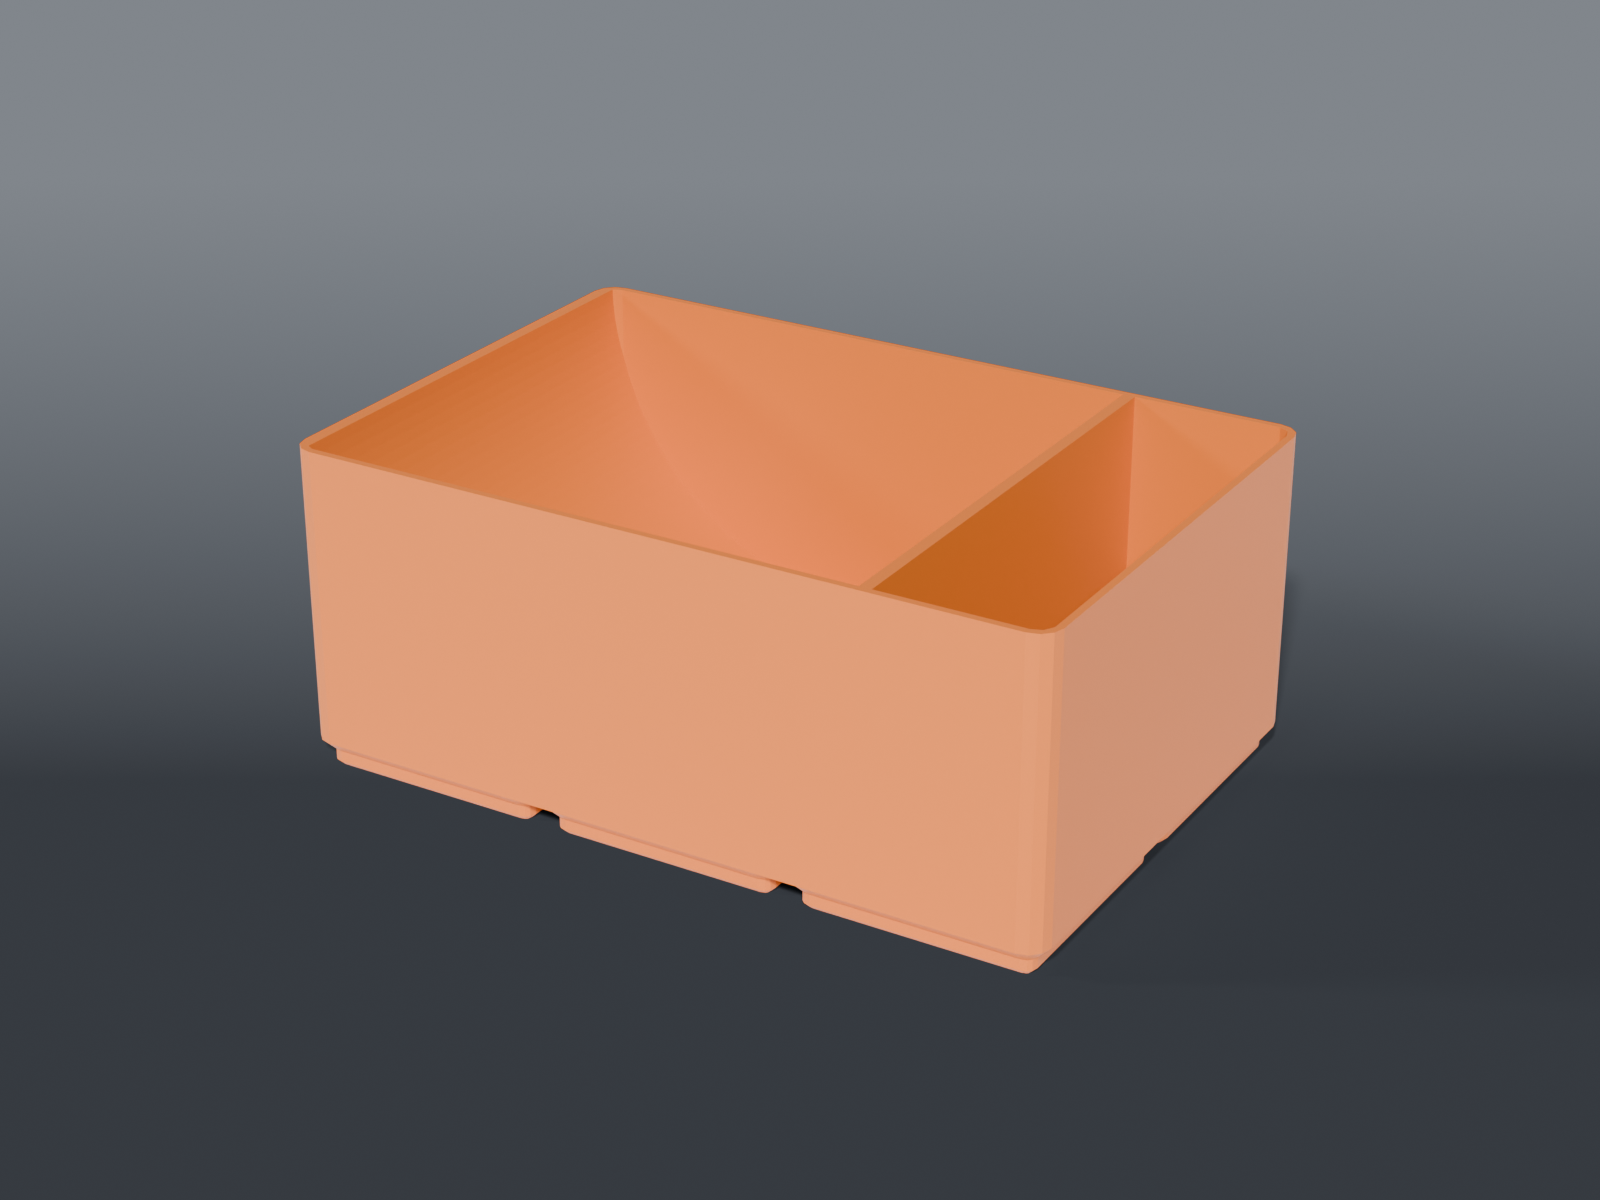
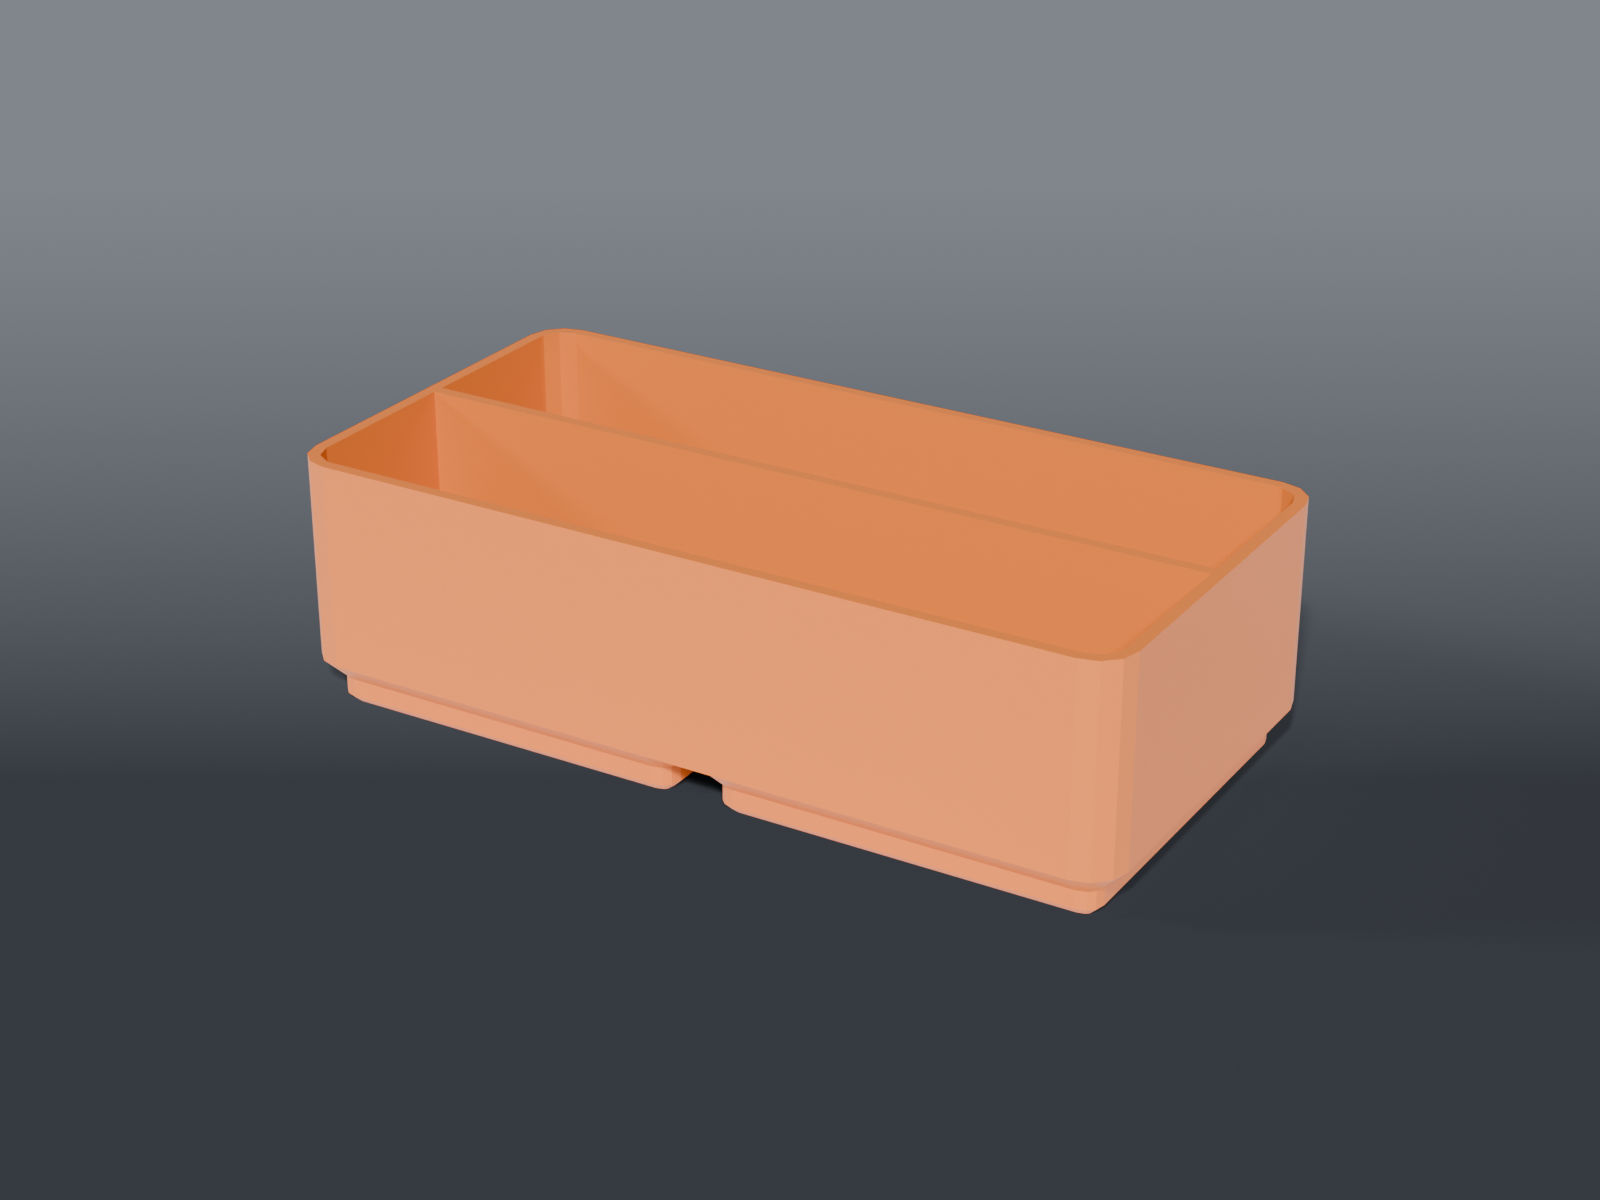
fix(phone-repair-consumables): two flat bays, roll stands in its slot

diff --git a/phone-repair-consumables/README.md b/phone-repair-consumables/README.md
@@ -2,46 +2,41 @@
 
 ![Phone-repair consumables](preview.png)
 
-A **3×2 bin** for the adhesive and foam consumables out of the phone-repair kit: one roll, cradled, plus a bay for the loose strips.
+A **2×1 bin split down its length into two flat-bottomed bays** — the adhesive/foam roll in one, the loose strips in the other.
 
 ## Parts
 
 | Part | File | Size | Print |
 |---|---|---|---|
-| **Adhesive + foam bin** | `bin_adhesive_foam.scad` | 125.5 × 83.5 × 53.2 mm | ×1 — feet down, no supports |
+| **Adhesive + foam bin** | `bin_adhesive_foam.scad` | 83.5 × 41.5 × 25 mm | ×1 — feet down, no supports |
 
-## The roll only fits one way
+Two bays of **81.1 × 18.95**, 18.85 mm floor to rim. 25.8 cm³, about 11 g.
 
-At ⌀92 the roll **cannot lie flat** in a 3×2. The interior is 123.1 × 81.1, so 92 clears the long axis and misses the short one by 11 mm. It sits like a wheel — axis across the short side, diameter along the long side — and everything else in the bin follows from that.
+## The roll bridges, it doesn't sit in
 
-| | |
-|---|---|
-| Roll | ⌀92, cradled in a ⌀94 trough |
-| Strip bay | 26.1 × 81.1, full depth |
-| Rim | lands on the roll's equator |
+⚠ The roll is **⌀92** against an 81.1 mm bay, so it never reaches the floor. It stands in the slot and rests across the two end walls, proud of the rim — the same arrangement as a tape dispenser.
 
-## Why a cradle and not a flat floor
+**What holds it upright is the slot width pinching its faces**, not the floor shape. That's why there's no cradle: a flat floor does the job as well as a curved one once the slot is doing the work.
 
-Foam is soft. Stood on a flat floor a roll carries its whole weight on one line and takes a flat spot. A trough cut to the roll's own diameter spreads that over the full arc, which is what *support the rolls* has to mean for foam.
+⌀92 **cannot be contained** by a 2×1 in any orientation. Fully enclosing it needs a 3×3.
 
-**Why not a spindle.** A spindle is the better holder for a roll, but a spindle is sized from the **core**, and the core has never been measured. A trough needs only the outside diameter, which is known. If the core ever gets measured this can become a spindle without moving anything else.
+## Nothing here is cut from a guessed number
 
-## What's measured and what isn't
+The divider sits at the midline — half the bin each. The roll's **thickness** and the strips' size never enter the geometry, so neither had to be measured.
 
-✅ **⌀92** — *"about the same diameter as the kapton tape rolls"* (2026-09-01), and the Kapton reel is on record at ≈92. Not calipered, but a cradle is forgiving in a way a spindle or a slot is not: 2 mm either way changes nothing about whether the roll sits in it.
+The one recorded dimension, `ROLL_D = 92`, is measured (Kapton reel outer ⌀, 2026-08-20, core 78.5) and is used only to document why the roll can't be contained. No feature is cut from it.
 
-⚠ **The strip bay is deliberately unsized.** The strips have never been measured, and a slot cut to a guess is worse than no slot — too narrow and they won't go in, and no mesh check catches that. The bay is simply the interior the roll doesn't use. Same call as the engraver accessory bin's open bay for the collet wrench.
+## Three earlier cuts, and what each got wrong
 
-Roll **width** never needed measuring: the trough spans the full interior, so anything up to 79 mm wide seats. Verified by sweeping 20 / 40 / 60 / 70 / 79 against the rendered mesh — all clear.
+Kept because the reasoning is the useful part:
 
-## Two tangencies this had to dodge
+| | What it did | Why it was wrong |
+|---|---|---|
+| **3×2** | trough spanning the bin's full depth | handed 81 mm of depth to a roll ~9 mm thick — that's what made it enormous |
+| **2×1 (a)** | trough shrunk to ⌀50 | assumed ⌀92 needed *containing*, judged it impossible, and cut something that fits no roll at all |
+| **2×1 (b)** | full-depth saddle at the roll's own radius | cradled it against rolling but left a thin disc free to lean, and it did |
 
-Both returned non-manifold edges on OpenSCAD 2021.01 and rendered clean locally:
-
-- **Trough on the floor.** Sitting the cylinder exactly on the interior floor makes it *tangent* — they touch along a line instead of crossing. It sinks 0.6 mm into a 2.0 mm floor instead, leaving the usual 1.4 mm underneath.
-- **Trough against the left wall.** Flush, the cylinder is tangent to that wall; 3 bad edges landed on that seam at x −61.55. It's inset 1 mm.
-
-A cut has to pass **through** a surface, not graze it.
+All three came from treating a roll as something to swallow rather than something to stand up.
 
 ## Recommended print settings
 
@@ -51,4 +46,4 @@ A cut has to pass **through** a surface, not graze it.
 | Layer height | 0.2 mm |
 | Walls | 3 |
 | Infill | 15% grid |
-| Supports | **None** — the trough's surface faces up and inward, so nothing in it overhangs |
+| Supports | **None** |

diff --git a/README.md b/README.md
@@ -13,7 +13,7 @@ A collection of 3D-printable models authored as **OpenSCAD source**. STLs are re
 | <img src="stand-cable-clamp/preview.png" width="150"> | [**Stand cable clamp**](stand-cable-clamp/) | Wingnut clamp for round stand poles + slide-on cable heads (hook / clip / comb / velcro). |
 | <img src="donation-qr-stand/preview.png" width="150"> | [**Donation QR stand**](donation-qr-stand/) | Desk stand with two-colour Venmo + CashApp QR codes for tips. Parametric — regenerate the codes for any URL. |
 | <img src="bench-cleaning-station/preview.png" width="150"> | [**Bench cleaning station**](bench-cleaning-station/) | Gridfinity cups + bins for an electronics bench's IPA corner — aerosols, wash bottle, dispenser pump, melamine sponges. |
-| <img src="phone-repair-consumables/preview.png" width="150"> | [**Phone-repair consumables**](phone-repair-consumables/) | 3×2 bin for the adhesive and foam consumables from a phone-repair kit. The ⌀92 roll sits like a wheel in a cradle cut to its own diameter — a flat floor would give soft foam a flat spot — with an open bay alongside for the loose strips. |
+| <img src="phone-repair-consumables/preview.png" width="150"> | [**Phone-repair consumables**](phone-repair-consumables/) | 2×1 split down its length into two flat-bottomed bays: the adhesive/foam roll in one, the loose strips in the other. The ⌀92 roll bridges its bay and stands proud like a tape dispenser — the slot width holds it upright, so no cradle is needed. |
 | <img src="rotary-tool-station/preview.png" width="150"> | [**Rotary tool station**](rotary-tool-station/) | Vertical cup for a HARDELL mini rotary tool + a drilled block for its 3/32″ bits. Includes a print-first hole-fit gauge. |
 | <img src="engraver-station/preview.png" width="150"> | [**Engraver station**](engraver-station/) | 35-hole bit block for a small engraver rotary tool — a different tool from the HARDELL. Bores cut to a gauge-measured finished hole rather than a nominal shank. |
 | <img src="thermal-cam-mount/preview.png" width="150"> | [**Thermal cam mount**](thermal-cam-mount/) | Two-part sandwich clamp holding a Sipeed T256s thermal camera on a ring light's control tab, aimed down at the board. Ships an aim-verification script — a mount pointed at the objective still passes a mesh check. |
